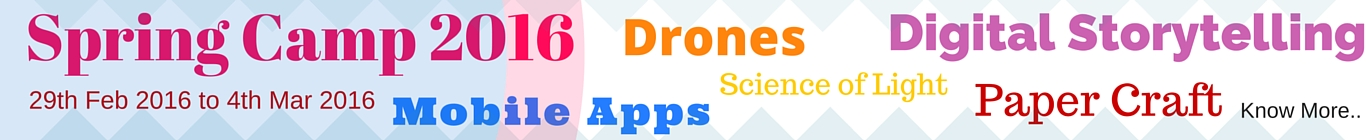
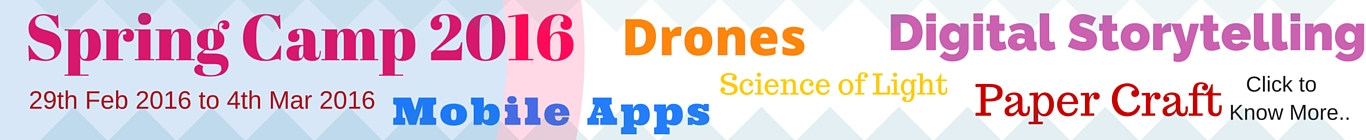
Third Iteration

Changed region(s): [[0.8917, 0.7429, 1.0, 0.8571], [0.8917, 0.5429, 0.9839, 0.6571]]

diff --git a/spring_camp_2016.html b/spring_camp_2016.html
@@ -34,7 +34,7 @@
       </div>
       </header>
       <div style="width:100%">
-          <img src="images/spring_camp/banner.jpg" style="width:100%">
+          <img src="images/spring_camp/banner1.jpg" style="width:100%">
       </div>
       <div class="section type-1" style="padding-bottom:0">
         <div class="container">
@@ -42,11 +42,11 @@
             </div><font color = "#FFFFFF">
                 <br>
             <div>
-                <p><font size= "15"><u>Spring camp</u></font><font size = "5"><br><u>Dates:</u> 29 Feb to 4 March, 2016<br><u>Timing:</u> 9.30 a.m. - 12.30 p.m. and 1.30 p.m. - 4.30 p.m.<br><u>Ages:</u> 10 - 14<br><u>Pricing:</u> Rs 10,000 inclusive of taxes. (for 5 day camp)<br><strong><font size = "4">*Anyone interested in registering for less than all 5 days of the Camp, the fees is Rs 2,200 per day, inclusive of snacks, lunch that are provided as part of the camp fee.</strong></font><br><br><strong>*Gift cards / vouchers issued by Curiosity Gym can be used as part payment for the Spring Camp.<br></strong><br>The spring camp schedule and description of sessions is below.<br><br></font></p>
+                <p><font size= "15"><u>Spring camp</u></font><font size = "5"><br><u>Dates:</u> 29 Feb to 4 March, 2016<br><u>Timing:</u> 9.30 a.m. - 4.30 p.m.<br><u>Ages:</u> 10 - 14<br><u>Pricing:</u> <br>Spring Camp Day - Rs 2,500 per day<br>Spring Camp Lite - Rs 2,200 per day ( Any 3 days )<br>Spring Camp - Rs 9,900 ( For all 5 days )<br><strong><font size = "4">*The fees is inclusive of snacks and lunch.</strong></font><br><strong>*Gift cards / vouchers issued by Curiosity Gym can be used as part payment for the Spring Camp.<br></strong>The spring camp schedule and description of sessions is below.<br><br></font></p>
             </div>
             <!-- Start of Digital Storytelling -->
             <div>
-                <div style="margin-left:auto; margin-right:auto; width:33%">
+                <div style="margin-left:auto; margin-right:auto; width:25%">
                     <p><font size = "7">Digital StoryTelling</font></p>
                 </div>
                 <section class="main">
@@ -92,13 +92,13 @@
 
     			</section>
                 <div style="display : inline-block; vertical-align:middle">
-                    <p><font size = "5">Creating stories is one of the most important activities of humans. It gives meaning to our other activities, and allows for sharing with all.<br>There are patterns in stories and almost all knowledge that we create, takes the form of stories. Some we believe in more than others.<br>During this workshop, we will engage in games, creative writing, critical thinking, conversations to uncover feelings and experiences of personal importance. Then using Scratch Software we will create digital stories that can be shared with the world.<br>Throughout the session we will discuss concepts from various storytelling traditions like arts, science, philosophy, technology and more.<font size = "4"><strong><br>Date : 29th Feb 2016 <br>Time <br>Session 1 : 9.30 AM to 12.30 PM<br>Session 2 : 1.30 PM to 4.30 PM<br></strong></font></font></p>
+                    <p><font size = "5">Creating stories is one of the most important activities of humans. It gives meaning to our other activities, and allows for sharing with all.<br>There are patterns in stories and almost all knowledge that we create, takes the form of stories. Some we believe in more than others.<br>During this workshop, we will engage in games, creative writing, critical thinking, conversations to uncover feelings and experiences of personal importance. Then using Scratch Software we will create digital stories that can be shared with the world.<br>Throughout the session we will discuss concepts from various storytelling traditions like arts, science, philosophy, technology and more.<font size = "4"><strong><br>Date : 29th Feb 2016 <br></strong></font></font></p>
                 </div>
             </div>
             <!-- End of Digital Storytelling -->
             <!-- Start of Android app -->
-            <div style="width:100%">
-                <div style="margin-left:auto; margin-right:auto; width:72%">
+            <div style="border-top: 1px solid blue; width:100%">
+                <div style="margin-left:auto; margin-right:auto; width:57%">
                     <p><font size = "7">Make your own Smartphone Android App </font></p>
                 </div>
                 <section class="main">
@@ -144,13 +144,13 @@
 
     			</section>
                 <div style="display : inline-block; width:65%; vertical-align:middle">
-                    <p><font size = "5">Use MIT AppInventor to learn how to create functional apps that can use your own phones sensors.<br>Build your own global book search app or digital thermometer app.<br>Participants need to come with their Android Smartphones..<font size="4"><strong><br>Date : 1st March 2016 <br>Time <br>Session 1 : 9.30 a.m. to 12.30 p.m.<br>Session 2 : 1.30 PM to 4.30 PM<br></strong></font></font></p>
+                    <p><font size = "5">Use MIT AppInventor to learn how to create functional apps that can use your own phones sensors.<br>Build your own global book search app or digital thermometer app.<br>Participants need to come with their Android Smartphones..<font size="4"><strong><br>Date : 1st March 2016 <br></strong></font></font></p>
                 </div>
             </div>
             <!-- End of Android app -->
             <!-- Start of Commanding Light -->
-            <div style="width:100%">
-                <div style="margin-left:auto; margin-right:auto; width:33%">
+            <div style="border-top: 1px solid blue; width:100%">
+                <div style="margin-left:auto; margin-right:auto; width:26%">
                     <p><font size = "7">Commanding Light</font></p>
                 </div>
                 <section class="main">
@@ -196,12 +196,12 @@
 
     			</section>
                 <div style="display : inline-block; vertical-align:middle">
-                    <p><font size = "5">During this workshop we will be building a <strong>telescope</strong> and <strong>microscope</strong> to understand the nature of light, its behavior and how we can manipulate it to expand our sense of vision, so that we can see the farthest objects as well as the smallest things.<font size = "4"><strong><br>Date : 2nd March 2016 <br>Time <br>Session 1 : 9.30 a.m. to 12.30 p.m.<br>Session 2 : 1.30 p.m. to 4.30 p.m.<br></strong></font></font></p>
+                    <p><font size = "5">During this workshop we will be building a <strong>telescope</strong> and <strong>microscope</strong> to understand the nature of light, its behavior and how we can manipulate it to expand our sense of vision, so that we can see the farthest objects as well as the smallest things.<br>The kids get a Take away telescope at no additional cost.<font size = "4"><strong><br>Date : 2nd March 2016 <br></strong></font></font></p>
                 </div>
             </div>
             <!-- End of Commanding Light -->
             <!-- Start of Papercraft -->
-            <div style="width:100%">
+            <div style="border-top: 1px solid blue; width:100%">
                 <div style="margin-left:auto; margin-right:auto; width:17%">
                     <p><font size = "7">Papercraft</font></p>
                 </div>
@@ -248,13 +248,13 @@
 
                 </section>
                 <div style="display : inline-block; vertical-align:middle">
-                    <p><font size = "5">The Art of Origami which originated in Japan comes from the word “Oru” meaning “folding” and “Kami” meaning “paper”.<br>Using a simple medium like paper, participants will learn the basics of Origami, how it has evolved and its progressive change as an method of expression.<br>Participants will also learn how to make complex geometric and 3D shapes like a “Hyperbolic Paraboloid” and a mobile object like dancing cubes made from strips of paper<font size="4"><strong><br>Date : 3rd March 2016 <br>Time <br>Session 1 : 9.30 a.m. to 12.30 p.m.<br></strong></font></font></p>
+                    <p><font size = "5">The Art of Origami which originated in Japan comes from the word “Oru” meaning “folding” and “Kami” meaning “paper”.<br>Using a simple medium like paper, participants will learn the basics of Origami, how it has evolved and its progressive change as an method of expression.<br>Participants will also learn how to make complex geometric and 3D shapes like a “Hyperbolic Paraboloid” and a mobile object like dancing cubes made from strips of paper<font size="4"><strong><br>Date : 3rd March 2016 <br>Time : 9.30 a.m. to 12.30 p.m.<br></strong></font></font></p>
                 </div>
             </div>
             <!-- End of Papercraft -->
             <!-- Start of make and break -->
-            <div style="width:100%">
-                <div style="margin-left:auto; margin-right:auto; width:28%">
+            <div style="border-top: 1px solid blue; width:100%">
+                <div style="margin-left:auto; margin-right:auto; width:23%">
                     <p><font size = "7">Make and Break</font></p>
                 </div>
                 <section class="main">
@@ -300,13 +300,13 @@
 
     			</section>
                 <div style="display : inline-block; vertical-align:middle">
-                    <p><font size = "5">This session we will break/disassemble and understand the working of a gadget and then make/assemble a couple of gadgets.<font size="4"><strong><br>Date : 3rd March 2016 <br>Time <br>Session : 1.30 p.m. to 4.30 p.m.<br></strong></font></font></p>
+                    <p><font size = "5">This session we will break/disassemble and understand the working of a gadget and then make/assemble a couple of gadgets.<font size="4"><strong><br>Date : 3rd March 2016 <br>Time : 1.30 p.m. to 4.30 p.m.<br></strong></font></font></p>
                 </div>
             </div>
             <!-- End of make and break -->
             <!-- Start of drones -->
-            <div style="width:100%">
-                <div style="margin-left:auto; margin-right:auto; width:50%">
+            <div style="width:100%; border-top: 1px solid blue">
+                <div style="margin-left:auto; margin-right:auto; width:39%">
                     <p><font size = "7">Build and Fly a pocket drone</font></p>
                 </div>
                 <section class="main">
@@ -352,7 +352,7 @@
 
     			</section>
                 <div style="display : inline-block; vertical-align:middle">
-                    <p><font size = "5">This course is aimed at young flying enthusiasts who want to take their hobby and skill to the next level.<br>You will learn how a drone works, what are its parts, be able to construct the drone, and then successfully fly it. You will be provided with a kit to build, and guided on how to assemble the drone, which can be purchased for an additional cost.<br>Participants need to carry an Android phone with them, which will be used to install a certified application to control the drone.<font size="4"><strong><br>Date : 4th March 2016 <br>Time <br>Session 1 : 9.30 AM to 12.30 PM<br>Session 2 : 1.30 PM to 4.30 PM<br>Rs 5000 extra for a takeaway drone<br>Participants should bring their own android phone.<br></strong></font></font></p>
+                    <p><font size = "5">This course is aimed at young flying enthusiasts who want to take their hobby and skill to the next level.<br>You will learn how a drone works, what are its parts, be able to construct the drone, and then successfully fly it. You will be provided with a kit to build, and guided on how to assemble the drone, which can be purchased for an additional cost.<br>Participants need to carry an Android phone with them, which will be used to install a certified application to control the drone.<br>Rs 5000 extra for a takeaway drone<font size="4"><strong><br>Date : 4th March 2016 <br>Participants should bring their own android phone.<br></strong></font></font></p>
                 </div>
             </div>
             <!-- End of drones -->
